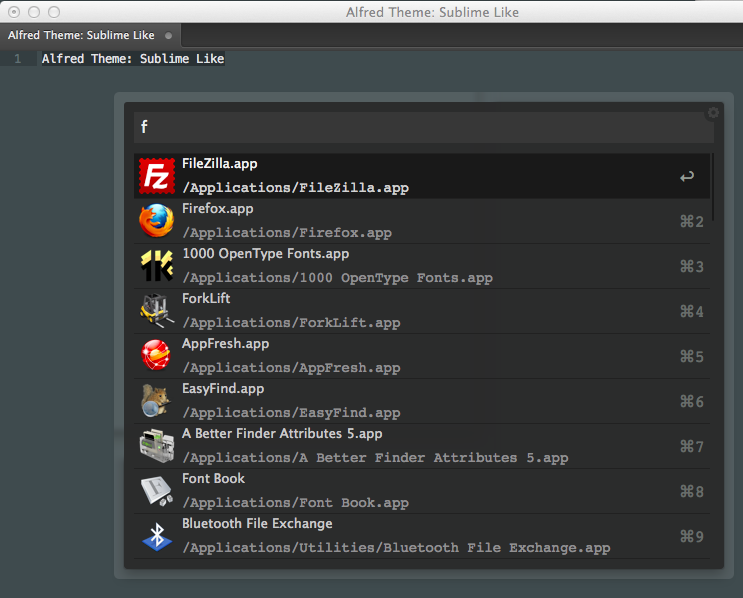
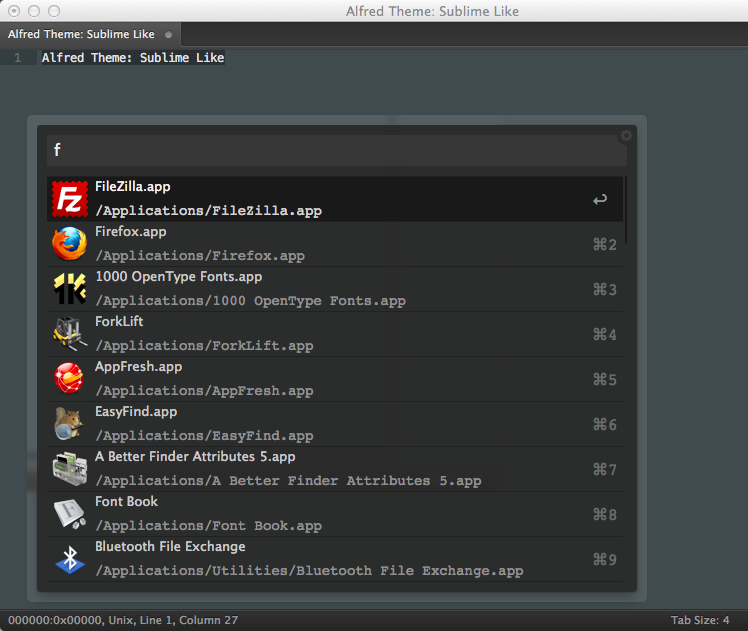
update screenshot

diff --git a/README.md b/README.md
@@ -6,7 +6,7 @@ Make your Alfred more powerful.
 
 Alfred 2 Theme - Name: Sublime Like [download here][9]
 
-
+![Sublime Like][10]
 
 * * *
 
